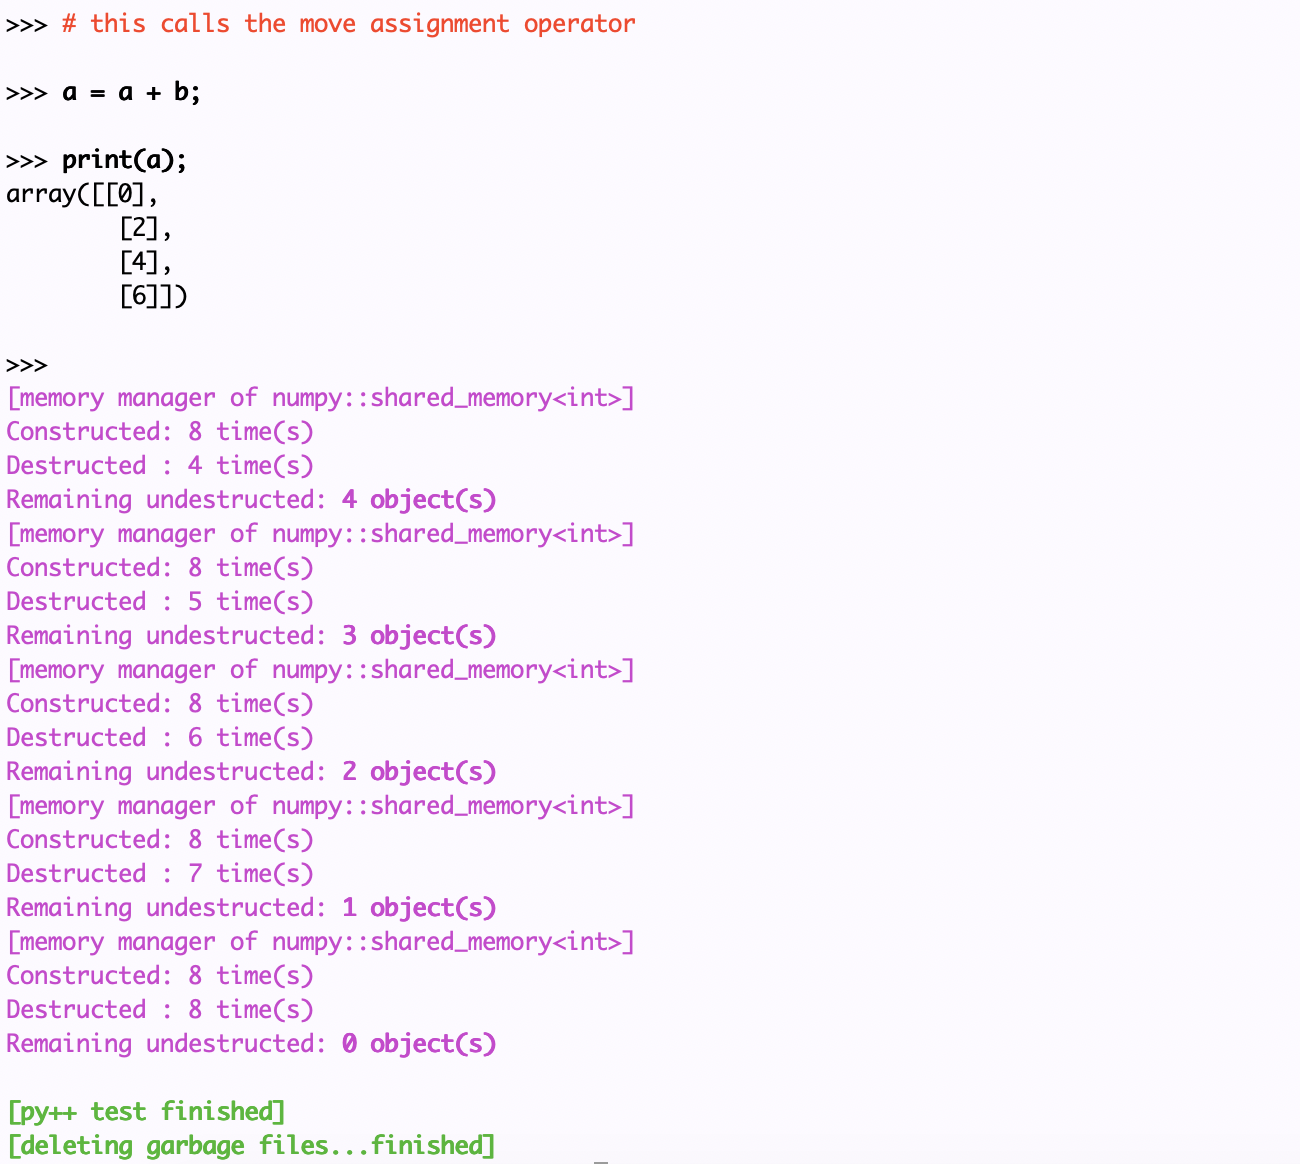
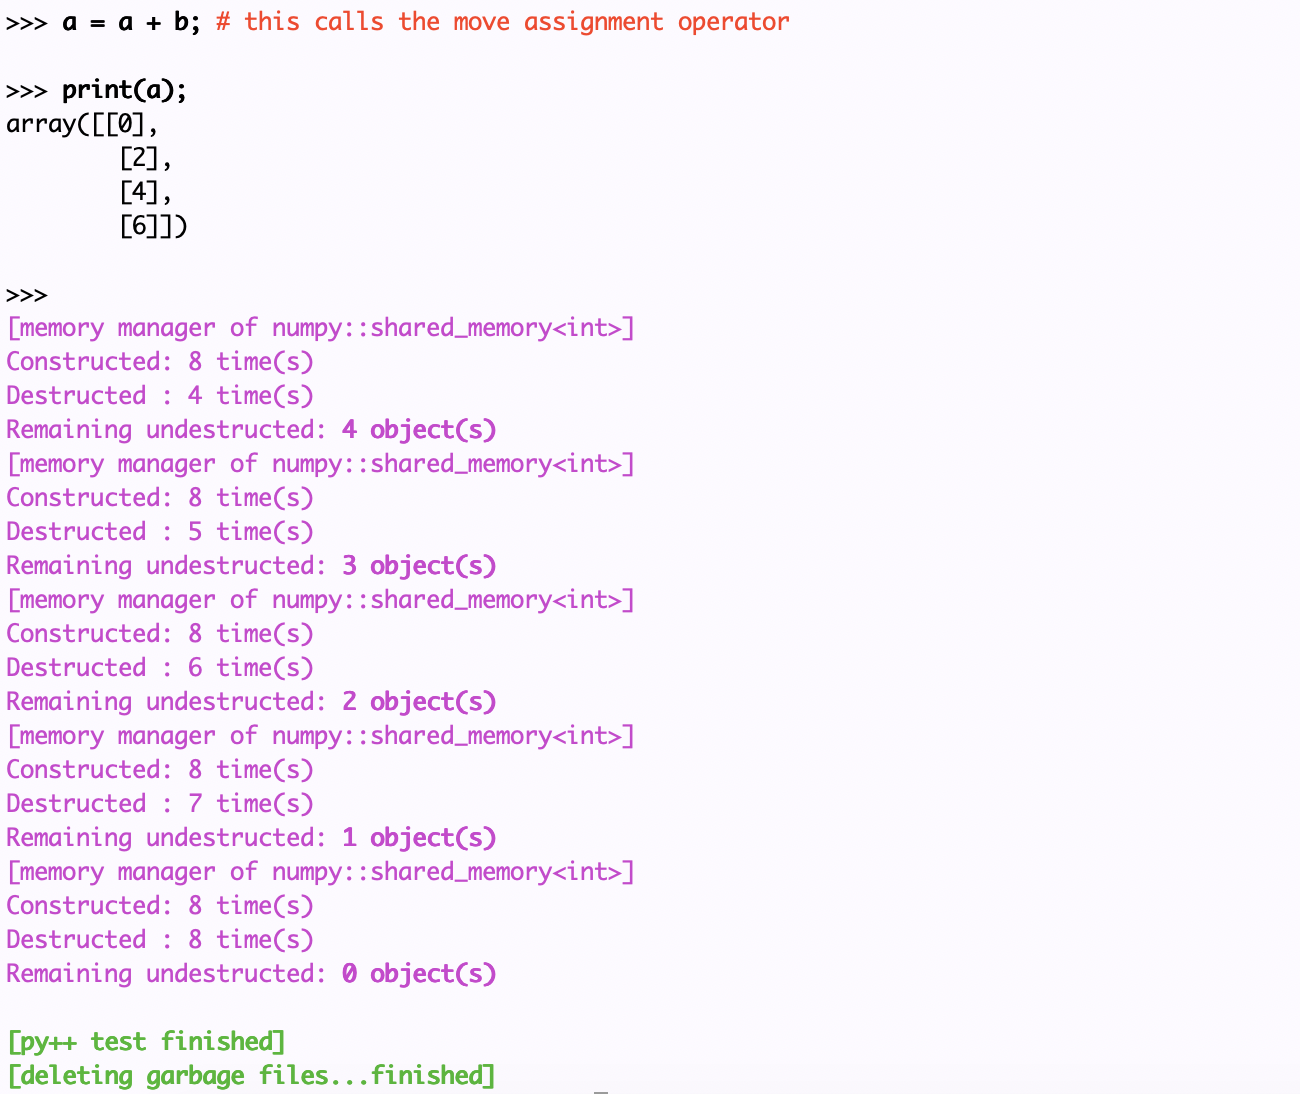
renewed readme

diff --git a/test/example.cpp b/test/example.cpp
@@ -42,8 +42,7 @@ int main() {
   b = a; // this calls the copy assignment operator, but it does not copy the contents of the array.
   // Just as in Python, `b` now refers to the same location of memory as `a`.
   print(np::may_share_memory(a, b)); // -> True
-  // this calls the move assignment operator
-  a = a + b;
+  a = a + b; // this calls the move assignment operator
   print(a);
   
 }

diff --git a/README.md b/README.md
@@ -51,8 +51,7 @@ int main() {
   b = a; // this calls the copy assignment operator, but it does not copy the contents of the array.
   // Just as in Python, `b` now refers to the same location of memory as `a`.
   print(np::may_share_memory(a, b)); // -> True
-  // this calls the move assignment operator
-  a = a + b;
+  a = a + b; // this calls the move assignment operator
   print(a);
   
 }
